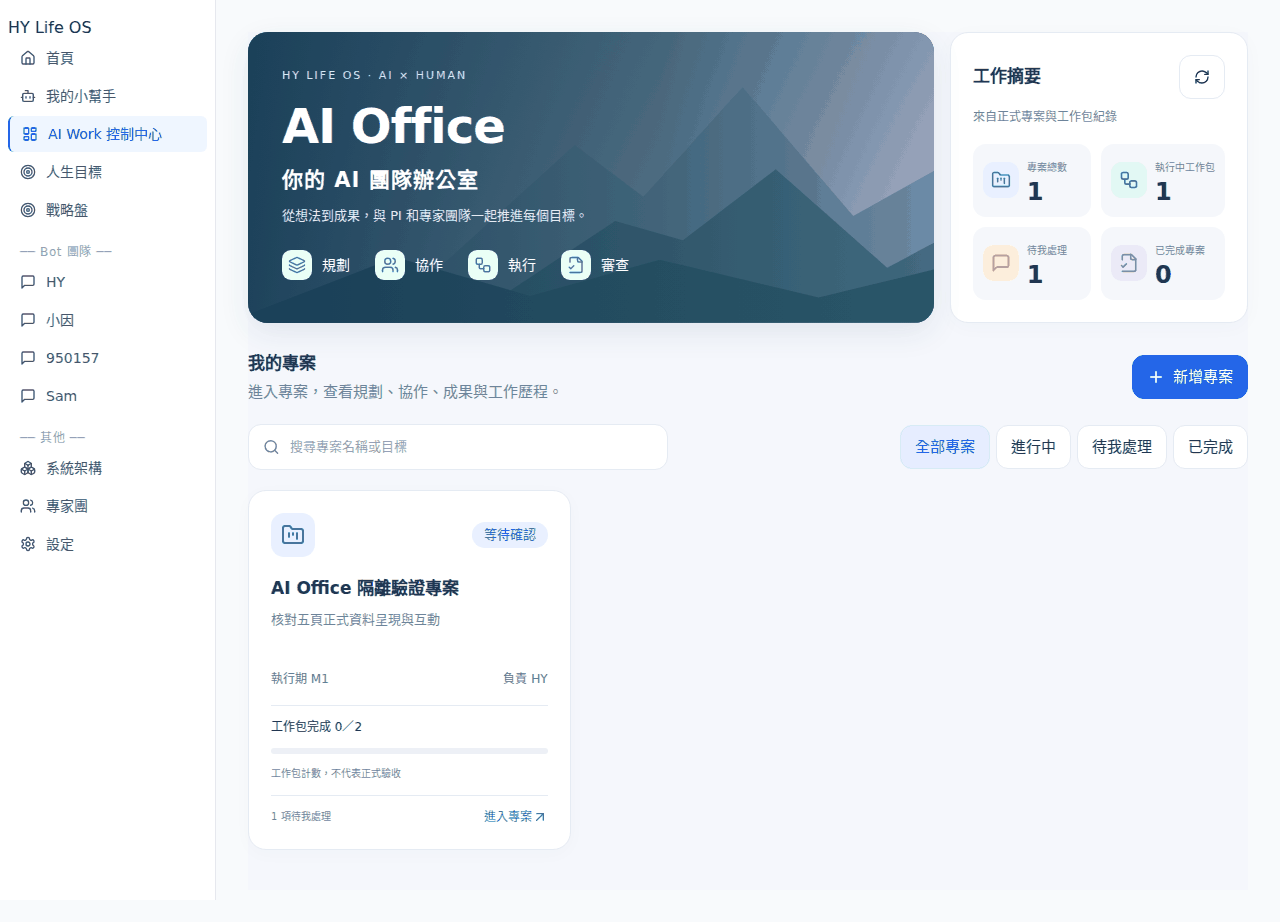
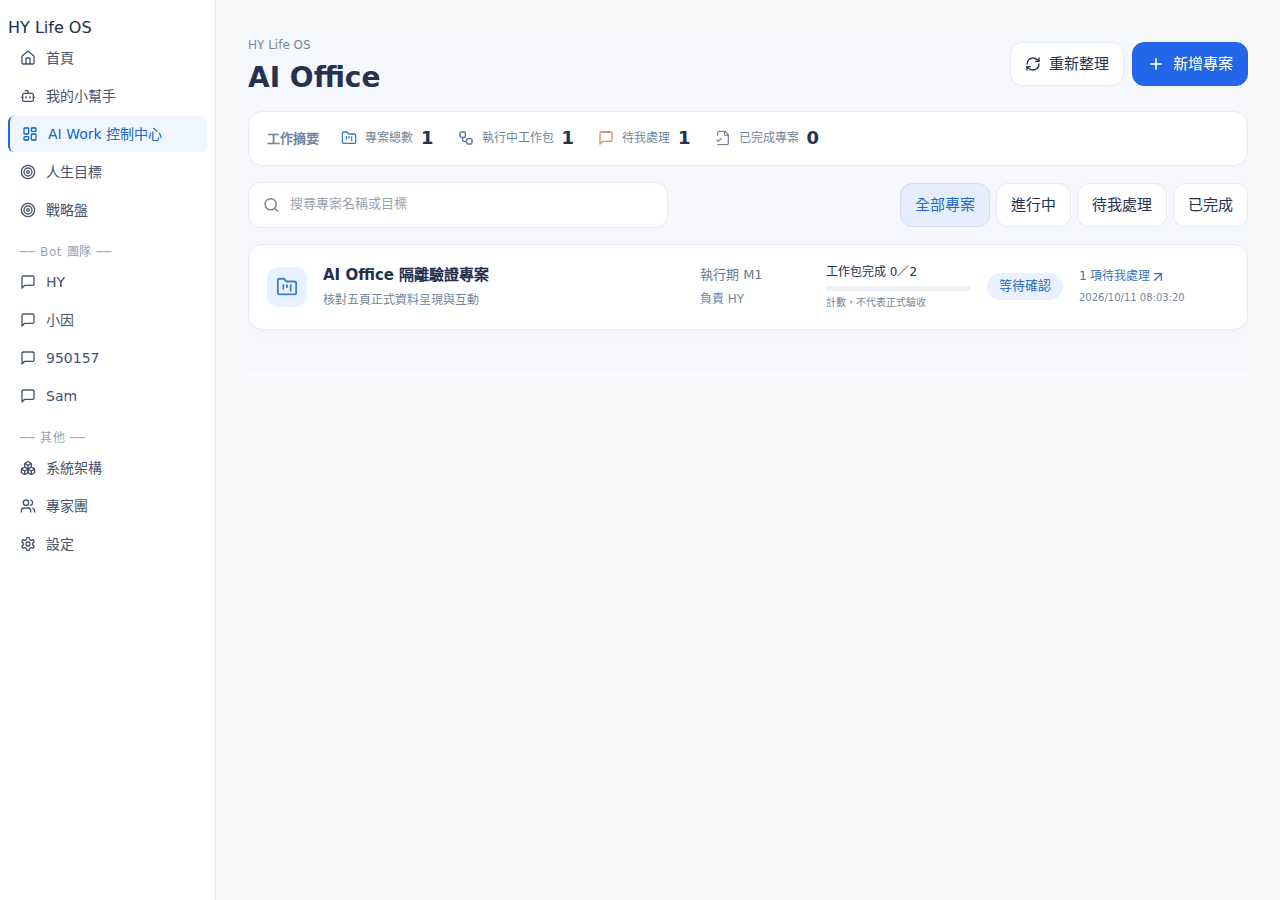
fix: align AI Office home with compact AI Work project rows

diff --git a/src/pages/ai-office-v1.css b/src/pages/ai-office-v1.css
@@ -16,11 +16,8 @@
 /* Reference palette: blue mountain hero, mint collaboration, violet knowledge,
    warm amber human decisions. Color identifies content, never acceptance. */
 .ao{--ao-ink:#24334b;--ao-muted:#71849b;--ao-line:#e5ebf3;--ao-surface:#f5f7fc}
-.ao-home{gap:20px;background:var(--ao-surface)}.ao-home-top{display:grid;grid-template-columns:minmax(0,2.3fr) minmax(280px,1fr);gap:16px}.ao-home-hero{position:relative;isolation:isolate;overflow:hidden;border-radius:20px;min-height:285px;background:#2d5269;color:#fff;box-shadow:0 10px 30px #27476318}.ao-landscape{position:absolute;inset:0;width:100%;height:100%;z-index:-2}.ao-home-hero:after{content:'';position:absolute;inset:0;background:linear-gradient(90deg,#173c55ef,#23485a9c 60%,#30476318);z-index:-1}.ao-hero-content{padding:30px 34px}.ao-hero-kicker{font-size:11px;letter-spacing:2px;color:#cae5ef}.ao-home-hero h1{font-size:48px;letter-spacing:-1px;margin:10px 0 3px}.ao-hero-lead{font-size:21px;font-weight:600;letter-spacing:1px}.ao-home-hero p{color:#e1edf3;font-size:13px}.ao-home-hero .ao-hero-lead{font-size:21px;color:white}.ao-hero-steps{display:flex;gap:25px;flex-wrap:wrap;margin-top:24px}.ao-hero-steps span{display:flex;align-items:center;gap:10px;font-size:14px}.ao-hero-steps svg{width:30px;height:30px;padding:6px;background:#e9fff5;border-radius:9px;color:#419a91}
-.ao-home-section-head{display:flex;justify-content:space-between;gap:16px;align-items:center}.ao-home-section-head h2{margin:0}.ao-home-section-head button{display:flex;align-items:center;justify-content:center;gap:8px}.ao-home-summary{padding:22px}.ao-home-summary>.ao-home-section-head{margin-bottom:5px}.ao-home-stats{display:grid;grid-template-columns:1fr 1fr;gap:10px;margin-top:16px}.ao-stat{display:flex;align-items:center;gap:10px;background:#f5f7fb;padding:12px;border-radius:13px}.ao-stat small{font-size:11px}.ao-stat strong{display:block;font-size:24px;line-height:1.2;color:var(--ao-ink)}.ao-icon-tile{display:inline-flex;align-items:center;justify-content:center;width:44px;height:44px;border-radius:13px;background:var(--tone-bg,#e9f1ff);color:var(--tone-ink,#4179c7);flex-shrink:0}.ao-tone-blue{--tone-bg:#e8f1ff;--tone-ink:#3a7bbf;--tone-fill:#39a6d2}.ao-tone-mint{--tone-bg:#e2f7ee;--tone-ink:#36a48c;--tone-fill:#45b59a}.ao-tone-violet{--tone-bg:#eee8fb;--tone-ink:#8270bd;--tone-fill:#9b87d0}.ao-tone-amber{--tone-bg:#fff0de;--tone-ink:#d8904a;--tone-fill:#e4a45f}.ao-project-heading{margin-top:8px}.ao-project-heading p{margin:4px 0 0}.ao-home-controls{display:flex;justify-content:space-between;gap:16px;flex-wrap:wrap;align-items:center}.ao-home-search{position:relative;display:flex!important;align-items:center;gap:10px;margin:0!important;flex:1;max-width:420px;background:#fff;border:1px solid var(--ao-line);border-radius:13px;padding:0 14px}.ao-home-search input{margin:0;border:0;background:transparent;padding-left:0}.ao-home-controls [role=group]{display:flex;gap:6px;flex-wrap:wrap}.ao-home-controls [aria-pressed=true]{color:#2466db;background:#e6edff;border-color:#d1ddff}.ao-home-projects{display:grid;grid-template-columns:repeat(3,minmax(0,1fr));gap:16px}.ao .ao-project-card{display:block;text-align:left;padding:22px;background:#fff;border:1px solid var(--ao-line);box-shadow:0 4px 18px #29496506;border-radius:18px;min-width:0;transition:box-shadow .15s,border-color .15s}.ao .ao-project-card:hover{background:#fff;border-color:#b7cbe9;box-shadow:0 8px 24px #29496512}.ao-project-card-top{display:flex;align-items:center;justify-content:space-between;gap:8px}.ao-project-card h3{font-size:17px;margin:18px 0 6px}.ao-project-goal{color:#71849b;font-size:13px;min-height:44px;display:-webkit-box;-webkit-line-clamp:2;-webkit-box-orient:vertical;overflow:hidden}.ao-project-stage{display:flex;gap:8px;justify-content:space-between;font-size:12px;color:#657990;margin:16px 0}.ao-home-progress{padding:12px 0;border-top:1px solid var(--ao-line);font-size:12px}.ao-home-progress small{font-size:10px}.ao-progress-track{height:6px;border-radius:20px;background:#edf0f5;margin:10px 0;overflow:hidden}.ao-progress-track span{display:block;height:100%;background:var(--tone-fill);border-radius:20px}.ao-project-card-bottom{border-top:1px solid var(--ao-line);padding-top:12px;display:flex;justify-content:space-between;gap:12px;align-items:center}.ao-project-card-bottom>span{display:flex;align-items:center;color:#3674c3;white-space:nowrap;font-size:12px}.ao-project-card-bottom small{font-size:10px}.ao-home-empty{text-align:center;padding:40px;color:var(--ao-muted)}.ao-home-create .cc5-panel{background:#fff}
 .ao-header{background:linear-gradient(115deg,#294e68,#42667c 65%,#74889d);color:#fff;border:0;box-shadow:0 8px 24px #2c536619}.ao-header .ao-eyebrow,.ao-header small{color:#cbdee8}.ao-header .ao-pill{background:#e5edff;color:#325b99}.ao-header .ao-goal{color:#e6f0f4}.ao-card{box-shadow:0 4px 20px #36516d07}.ao-card>h2{display:flex;align-items:center;gap:10px}.ao-card>h2:before{content:'';display:block;width:6px;height:20px;border-radius:5px;background:#5c95cf;flex-shrink:0}.ao-dashboard .ao-card:nth-child(2)>h2:before{background:#55b49b}.ao-dashboard .ao-card:nth-child(3)>h2:before{background:#6a9dd4}.ao-dashboard .ao-card:nth-child(4)>h2:before{background:#e9aa60}.ao-dashboard .ao-card:nth-child(5)>h2:before{background:#9d89cf}.ao-dashboard .ao-card:nth-child(6)>h2:before{background:#60b8b1}.ao-needs{background:linear-gradient(145deg,#fff,#fff9f1)}.ao-meeting-support .ao-card:last-child{background:linear-gradient(140deg,#fff,#f7f3ff)}.ao-meeting-support .ao-card:last-child>h2:before{background:#9a82c9}.ao-files{background:linear-gradient(135deg,#f8fcfb,#fbfaff)}.ao-work-pane>h2:before{background:#45ad99}.ao-document-pane>h2:before{background:#9880cb}.ao-package{background:#f0f8f6;border-left:3px solid #71bcac}.ao-results>.ao-card:nth-child(2)>h2:before{background:#57b4ae}.ao-results>.ao-card:nth-child(3)>h2:before{background:#a18ace}.ao-journal li{border-left:2px solid #e6e0f3;padding-left:18px;position:relative}.ao-journal li:before{content:'';position:absolute;left:-5px;top:27px;width:8px;height:8px;border-radius:50%;background:#ab98cc}.ao-tabs button[aria-current=page]{background:#e1eaff;color:#245cbe;box-shadow:0 2px 8px #346cca09}
-@media(max-width:1150px){.ao-home-projects{grid-template-columns:repeat(2,minmax(0,1fr))}.ao-home-top{grid-template-columns:minmax(0,1.7fr) minmax(275px,1fr)}.ao-hero-content{padding:26px}.ao-hero-steps{gap:15px}}
-@media(max-width:800px){.ao-home-top{grid-template-columns:1fr}.ao-home-hero{min-height:260px}.ao-home-stats{grid-template-columns:repeat(4,minmax(0,1fr))}.ao-stat{flex-direction:column;align-items:flex-start}.ao-home-controls{align-items:stretch}.ao-home-search{max-width:none}.ao-home-projects{grid-template-columns:1fr}.ao-home-hero h1{font-size:40px}}
-@media(max-width:480px){.ao-home-stats{grid-template-columns:repeat(2,minmax(0,1fr))}.ao-stat{flex-direction:row}.ao-home-section-head{align-items:flex-start}.ao-hero-content{padding:24px}.ao-hero-steps{gap:12px}.ao-hero-steps span{font-size:12px;gap:6px}.ao-project-heading{flex-wrap:wrap}.ao-home-search{flex-basis:100%}}
-@media(prefers-reduced-motion:reduce){.ao .ao-project-card{transition:none}}
-.ao-stat{padding:10px;gap:8px}.ao-stat .ao-icon-tile{width:36px;height:36px;border-radius:11px}.ao-stat small{font-size:10px;white-space:nowrap}.ao-project-card h3{font-weight:600}
+/* Compact AI Work-style homepage: single summary strip and full-width rows. */
+.ao-home{gap:16px;background:var(--ao-surface)}.ao-home-section-head{display:flex;justify-content:space-between;gap:16px;align-items:center}.ao-list-heading h1{margin:4px 0 0}.ao-list-heading .ao-muted{font-size:12px}.ao-home-head-actions{display:flex;gap:8px}.ao-home-head-actions button{display:flex;align-items:center;gap:8px}.ao-home-summary{display:flex;align-items:center;gap:22px;background:#fff;border:1px solid var(--ao-line);border-radius:14px;padding:12px 18px;overflow-x:auto;white-space:nowrap}.ao-home-summary h2{font-size:13px;margin:0;color:var(--ao-muted);flex-shrink:0}.ao-home-stats{display:flex;align-items:center;gap:24px}.ao-stat{display:flex;align-items:center;gap:8px;color:var(--tone-ink)}.ao-stat small{font-size:12px;white-space:nowrap}.ao-stat strong{font-size:18px;color:var(--ao-ink)}.ao-tone-blue{--tone-ink:#3a7bbf}.ao-tone-mint{--tone-ink:#36a48c}.ao-tone-violet{--tone-ink:#8270bd}.ao-tone-amber{--tone-ink:#d8904a}.ao-home-controls{display:flex;justify-content:space-between;gap:16px;flex-wrap:wrap;align-items:center}.ao-home-search{position:relative;display:flex!important;align-items:center;gap:10px;margin:0!important;flex:1;max-width:420px;background:#fff;border:1px solid var(--ao-line);border-radius:13px;padding:0 14px}.ao-home-search input{margin:0;border:0;background:transparent;padding-left:0}.ao-home-controls [role=group]{display:flex;gap:6px;flex-wrap:wrap}.ao-home-controls [aria-pressed=true]{color:#2466db;background:#e6edff;border-color:#d1ddff}.ao-home-projects{display:grid;grid-template-columns:1fr;gap:10px}.ao .ao-project-line{display:grid;grid-template-columns:40px minmax(0,1fr) 110px 145px auto 150px;align-items:center;gap:16px;text-align:left;padding:18px;background:#fff;border:1px solid var(--ao-line);border-radius:14px;min-width:0;box-shadow:0 3px 14px #29496504}.ao .ao-project-line:hover{background:#fafcff;border-color:#b7cbe9}.ao-icon-tile{display:inline-flex;align-items:center;justify-content:center;width:40px;height:40px;border-radius:12px;background:#e8f1ff;color:#3a7bbf}.ao-project-title{display:grid;gap:4px;min-width:0}.ao-project-title b{font-size:15px}.ao-project-goal{color:var(--ao-muted);font-size:12px;white-space:nowrap;overflow:hidden;text-overflow:ellipsis}.ao-project-stage{display:grid;gap:4px;font-size:13px;color:#657990}.ao-home-progress{display:grid;gap:4px;font-size:12px}.ao-home-progress small{font-size:10px}.ao-progress-track{display:block;height:5px;border-radius:20px;background:#edf0f5;overflow:hidden}.ao-progress-track>span{display:block;height:100%;background:#4aafaa;border-radius:20px}.ao-project-enter{display:grid;gap:4px;min-width:0}.ao-project-enter>span{display:flex;align-items:center;color:#3674c3;white-space:nowrap;font-size:12px}.ao-project-enter small{font-size:10px}.ao-home-empty{text-align:center;padding:36px;color:var(--ao-muted)}.ao-home-create .cc5-panel{background:#fff}
+@media(max-width:1150px){.ao .ao-project-line{grid-template-columns:40px minmax(0,1fr) 100px 130px;gap:12px}.ao-project-line>.ao-pill{grid-column:2;justify-self:start}.ao-project-enter{grid-column:3/5;display:flex;justify-content:space-between}.ao-home-stats{gap:18px}}
+@media(max-width:700px){.ao-home-section-head{align-items:flex-start;flex-wrap:wrap}.ao-home-head-actions{flex-wrap:wrap}.ao-home-summary{gap:16px;padding:12px}.ao-home-stats{gap:18px}.ao-home-controls{align-items:stretch}.ao-home-search{max-width:none;flex-basis:100%}.ao .ao-project-line{grid-template-columns:36px minmax(0,1fr) auto;padding:16px;gap:12px}.ao-project-title{grid-column:2/4}.ao-project-stage{grid-column:2}.ao-home-progress{grid-column:3}.ao-project-line>.ao-pill{grid-column:2}.ao-project-enter{grid-column:2/4;display:grid;gap:2px}.ao-project-line .ao-icon-tile{width:36px;height:36px}.ao-project-goal{white-space:normal;display:-webkit-box;-webkit-line-clamp:2;-webkit-box-orient:vertical}.ao-project-line>.ao-pill{grid-row:3}.ao-project-line .ao-project-enter{grid-row:4}.ao-project-line .ao-home-progress{grid-row:2/4}}

diff --git a/src/pages/OfficeHome.jsx b/src/pages/OfficeHome.jsx
@@ -1,5 +1,5 @@
 import {useState} from 'react'
-import {FolderKanban, Plus, Search, RefreshCw, Workflow, Users, FileCheck2, ArrowUpRight, MessageSquare, Layers} from 'lucide-react'
+import {FolderKanban, Plus, Search, RefreshCw, Workflow, FileCheck2, ArrowUpRight, MessageSquare} from 'lucide-react'
 import {progress, PROJECT_STATUS} from '../lib/aiOffice.mjs'
 
 const filters=[['all','全部專案'],['active','進行中'],['open','待我處理'],['completed','已完成']]
@@ -15,20 +15,22 @@ export default function OfficeHome({projects,details,inbox,loaded,error,creating
   const missing=projects.length-Object.values(details).filter(Boolean).length
   const stats=[{name:'專案總數',value:projects.length,Icon:FolderKanban,tone:'blue'},{name:'執行中工作包',value:running,Icon:Workflow,tone:'mint'},{name:'待我處理',value:actions.length,Icon:MessageSquare,tone:'amber'},{name:'已完成專案',value:completed,Icon:FileCheck2,tone:'violet'}]
   return <section className="ao-home cc5" aria-label="AI Office 專案總表">
-    <div className="ao-home-top">
-      <header className="ao-home-hero">
-        <svg className="ao-landscape" viewBox="0 0 900 360" preserveAspectRatio="xMidYMid slice" aria-hidden="true"><defs><linearGradient id="office-sky" x2="1" y2="1"><stop stopColor="#547c9a"/><stop offset="1" stopColor="#c9c6d9"/></linearGradient></defs><rect width="900" height="360" fill="url(#office-sky)"/><path d="M220 330L430 140 515 204 638 68 775 228 900 158V360H220Z" fill="#7192aa"/><path d="M290 360L480 234 564 258 679 170 817 292 900 248V360Z" fill="#426f83"/><path d="M0 360L208 279 375 327 535 282 732 329 900 288V360Z" fill="#28586b"/></svg>
-        <div className="ao-hero-content"><span className="ao-hero-kicker">HY LIFE OS · AI × HUMAN</span><h1>AI Office</h1><p className="ao-hero-lead">你的 AI 團隊辦公室</p><p>從想法到成果，與 PI 和專家團隊一起推進每個目標。</p><div className="ao-hero-steps"><span><Layers/>規劃</span><span><Users/>協作</span><span><Workflow/>執行</span><span><FileCheck2/>審查</span></div></div>
-      </header>
-      <section className="ao-card ao-home-summary"><div className="ao-home-section-head"><h2>工作摘要</h2><button aria-label="重新整理專案" onClick={onReload}><RefreshCw size={16}/></button></div><small>來自正式專案與工作包紀錄</small><div className="ao-home-stats">{stats.map(({name,value,Icon,tone})=><div key={name} className={`ao-stat ao-tone-${tone}`}><span className="ao-icon-tile"><Icon size={20}/></span><div><small>{name}</small><strong>{loaded&&!error&&!(name==='執行中工作包'&&missing)?value:'—'}</strong></div></div>)}</div>{missing>0&&!error&&<small>有 {missing} 個專案詳情未讀取；工作包數量尚不完整。</small>}</section>
-    </div>
+    <header className="ao-home-section-head ao-list-heading"><div><span className="ao-muted">HY Life OS</span><h1>AI Office</h1></div><div className="ao-home-head-actions"><button aria-label="重新整理專案" onClick={onReload}><RefreshCw size={16}/>重新整理</button><button className="ao-primary" aria-expanded={creating} onClick={onCreate}><Plus size={18}/>新增專案</button></div></header>
+    <section className="ao-home-summary" aria-label="工作摘要"><h2>工作摘要</h2><div className="ao-home-stats">{stats.map(({name,value,Icon,tone})=><div key={name} className={`ao-stat ao-tone-${tone}`}><Icon size={16}/><small>{name}</small><strong>{loaded&&!error&&!(name==='執行中工作包'&&missing)?value:'—'}</strong></div>)}</div></section>
+    {missing>0&&!error&&<p className="ao-muted">有 {missing} 個專案詳情未讀取；工作包數量尚不完整。</p>}
     {error&&<div role="alert"><p>{error}</p><button onClick={onReload}>重試讀取</button></div>}
-    <div className="ao-home-section-head ao-project-heading"><div><h2>我的專案</h2><p className="ao-muted">進入專案，查看規劃、協作、成果與工作歷程。</p></div><button className="ao-primary" aria-expanded={creating} onClick={onCreate}><Plus size={18}/>新增專案</button></div>
     {creation&&<div className="ao-home-create">{creation}</div>}
     {registry}
     <div className="ao-home-controls"><label className="ao-home-search"><Search size={18}/><input type="search" aria-label="搜尋專案" placeholder="搜尋專案名稱或目標" value={query} onChange={e=>setQuery(e.target.value)}/></label><div role="group" aria-label="篩選專案">{filters.map(([key,label])=><button key={key} aria-pressed={key===filter} onClick={()=>setFilter(key)}>{label}</button>)}</div></div>
     {!loaded&&<p role="status">正在讀取正式專案…</p>}
     {loaded&&!error&&!visible.length&&<div className="ao-card ao-home-empty"><FolderKanban/><h3>{projects.length?'沒有符合條件的專案':'開始你的第一個專案'}</h3><p>{projects.length?'調整搜尋或篩選，找到需要的專案。':'提供目標，交由既有 PI 與工作包流程進行規劃。'}</p></div>}
-    <div className="ao-home-projects">{visible.map((p,i)=>{const detail=details[p.id],count=detail?progress(detail):null,open=pending(p.id);return <button className={`cc5-project ao-project-card ao-tone-${['blue','mint','violet','amber'][i%4]}`} key={p.id} onClick={()=>onSelect(p.id)}><div className="ao-project-card-top"><span className="ao-icon-tile"><FolderKanban size={24}/></span><span className="ao-pill">{PROJECT_STATUS[p.status]||p.status}</span></div><h3>{p.title}</h3><p className="ao-project-goal">{p.goal||'目標尚未記錄'}</p><div className="ao-project-stage"><span>{p.phase} {p.milestone_id||''}</span><span>負責 {({hy:'HY',sam:'Sam',family:'小因','950157':'950157'})[p.owner_bot]||p.owner_bot}</span></div><div className="ao-home-progress"><span>{count?`工作包完成 ${count.done}／${count.total}`:'工作包詳情未讀取'}</span>{count?.total>0&&<div className="ao-progress-track" aria-label={`工作包完成 ${count.done}／${count.total}`}><span style={{width:`${count.done/count.total*100}%`}}/></div>}<small>工作包計數，不代表正式驗收</small></div><div className="ao-project-card-bottom"><small>{open?`${open} 項待我處理`:date(detail?.updated_at)}</small><span>進入專案 <ArrowUpRight size={16}/></span></div></button>})}</div>
+    <div className="ao-home-projects" aria-label="專案列表">{visible.map(p=>{const detail=details[p.id],count=detail?progress(detail):null,open=pending(p.id);return <button className="cc5-project ao-project-line" key={p.id} onClick={()=>onSelect(p.id)}>
+      <span className="ao-icon-tile"><FolderKanban size={22}/></span>
+      <span className="ao-project-title"><b>{p.title}</b><span className="ao-project-goal">{p.goal||'目標尚未記錄'}</span></span>
+      <span className="ao-project-stage"><span>{p.phase} {p.milestone_id||''}</span><small>負責 {({hy:'HY',sam:'Sam',family:'小因','950157':'950157'})[p.owner_bot]||p.owner_bot}</small></span>
+      <span className="ao-home-progress"><span>{count?`工作包完成 ${count.done}／${count.total}`:'工作包詳情未讀取'}</span>{count?.total>0&&<span className="ao-progress-track" aria-label={`工作包完成 ${count.done}／${count.total}`}><span style={{width:`${count.done/count.total*100}%`}}/></span>}<small>計數，不代表正式驗收</small></span>
+      <span className="ao-pill">{PROJECT_STATUS[p.status]||p.status}</span>
+      <span className="ao-project-enter"><span>{open?`${open} 項待我處理`:'進入專案'} <ArrowUpRight size={16}/></span><small>{date(detail?.updated_at)}</small></span>
+    </button>})}</div>
   </section>
 }

diff --git a/docs/quality/ai-office-v1/README.md b/docs/quality/ai-office-v1/README.md
@@ -37,10 +37,12 @@ ControlCenterV5 保留預設行為，新增可選 project renderer、loader、ti
 
 本機驗證：後端 476 passed（5 項既有 deprecation warning）；前端 43 passed、Build 通過，三組 browser regression 通過。PLAN_APPROVAL／CODE_REVIEW 的核准契約不接受附件，本頁不提供會被忽略的附件提交；補充資料改由既有 suggestions 交接。CI 結果以 PR Checks 為準。
 
-## HY 審查修訂：首頁與配色
+## HY 最終首頁修訂：AI Work 列表架構與配色
 
-AI Office 入口新增 `OfficeHome.jsx` 專案總表：山景深藍主視覺、真實專案/工作包/待處理/完成數摘要、名稱與 Goal 搜尋、四種篩選、正式專案卡片及既有 NewProject 表單。專案詳情讀取不完整時不顯示完整工作包數；API 失敗不保留假狀態。共用 ControlCenterV5 只增加可選 renderHome，原預設行為不改；global Module Registry 驗收入口保留。
+AI Office 入口新增 `OfficeHome.jsx` 專案總表：簡潔頁首、單行真實專案/工作包/待處理/完成數摘要、名稱與 Goal 搜尋、四種篩選、逐列正式專案及既有 NewProject 表單。專案詳情讀取不完整時不顯示完整工作包數；API 失敗不保留假狀態。共用 ControlCenterV5 只增加可選 renderHome，原預設行為不改；global Module Registry 驗收入口保留。
 
 五頁沿用定案布局，增加深藍頁首、青綠/淡紫/暖橘內容色彩與輕微陰影，色彩不表示正式核准。首頁不複製專家團/知識庫或假今日完成資料。新增 `00-home-1280.png` 與 `00-home-390.png`，以及更新五頁截圖，全部為隔離工程 fixture。
 
 Browser 回歸新增首頁搜尋、篩選、NewProject 展開/取消、390/1280 響應式及進入專案；正式建立、刪除與核准仍使用既有契約。此次只更新 PR #79，不合併、不部署。
+
+首頁依 HY 最新定案移除山景/大主視覺與卡片網格，工作摘要為一條訊息列，專案一列一列全寬呈現。手機保留單列摘要的水平捲動與全寬專案列，列內資訊排版適應窄螢幕；專案內五頁不改。
